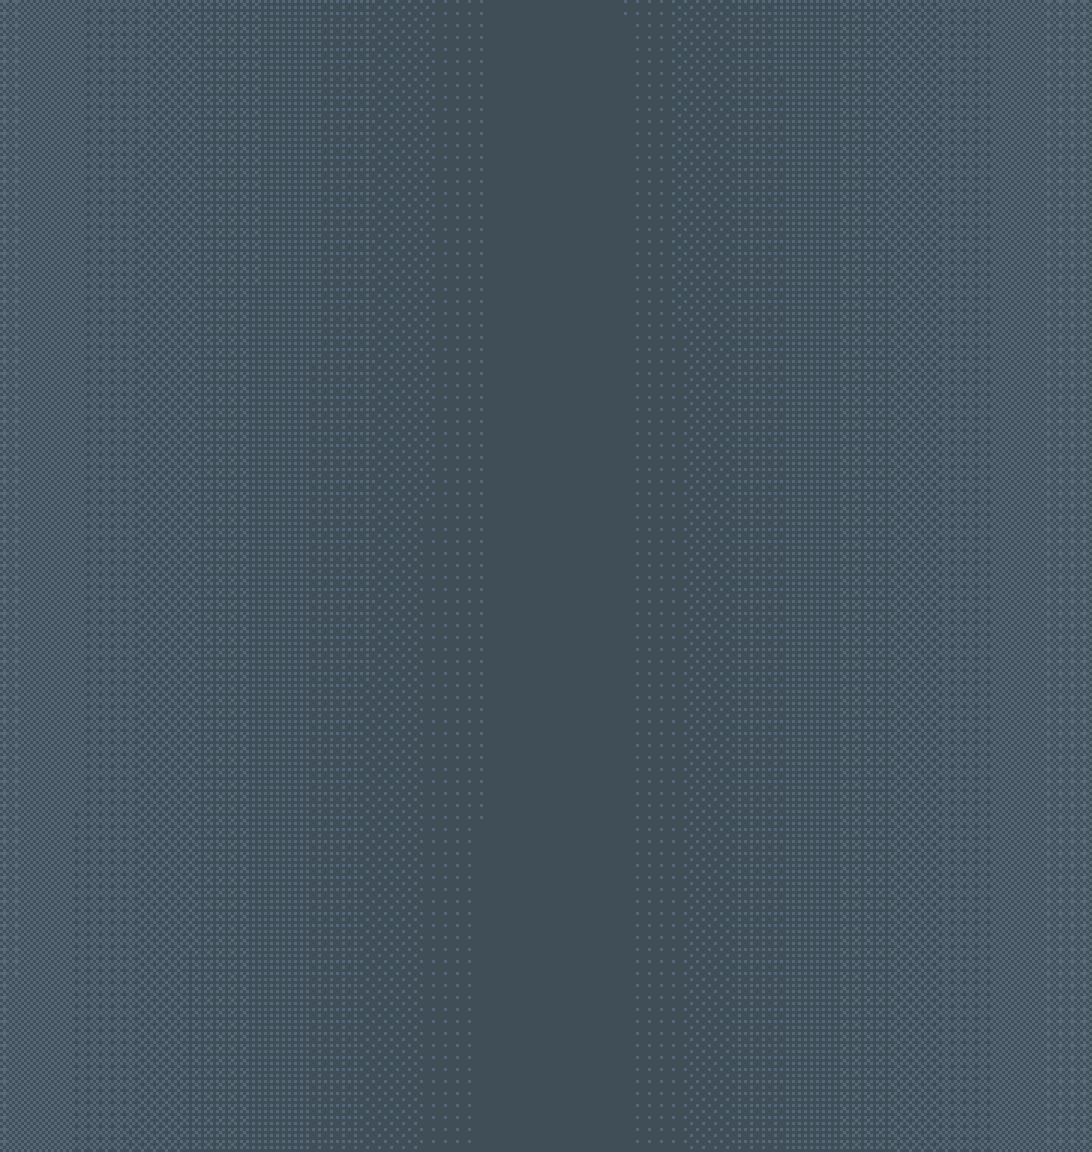
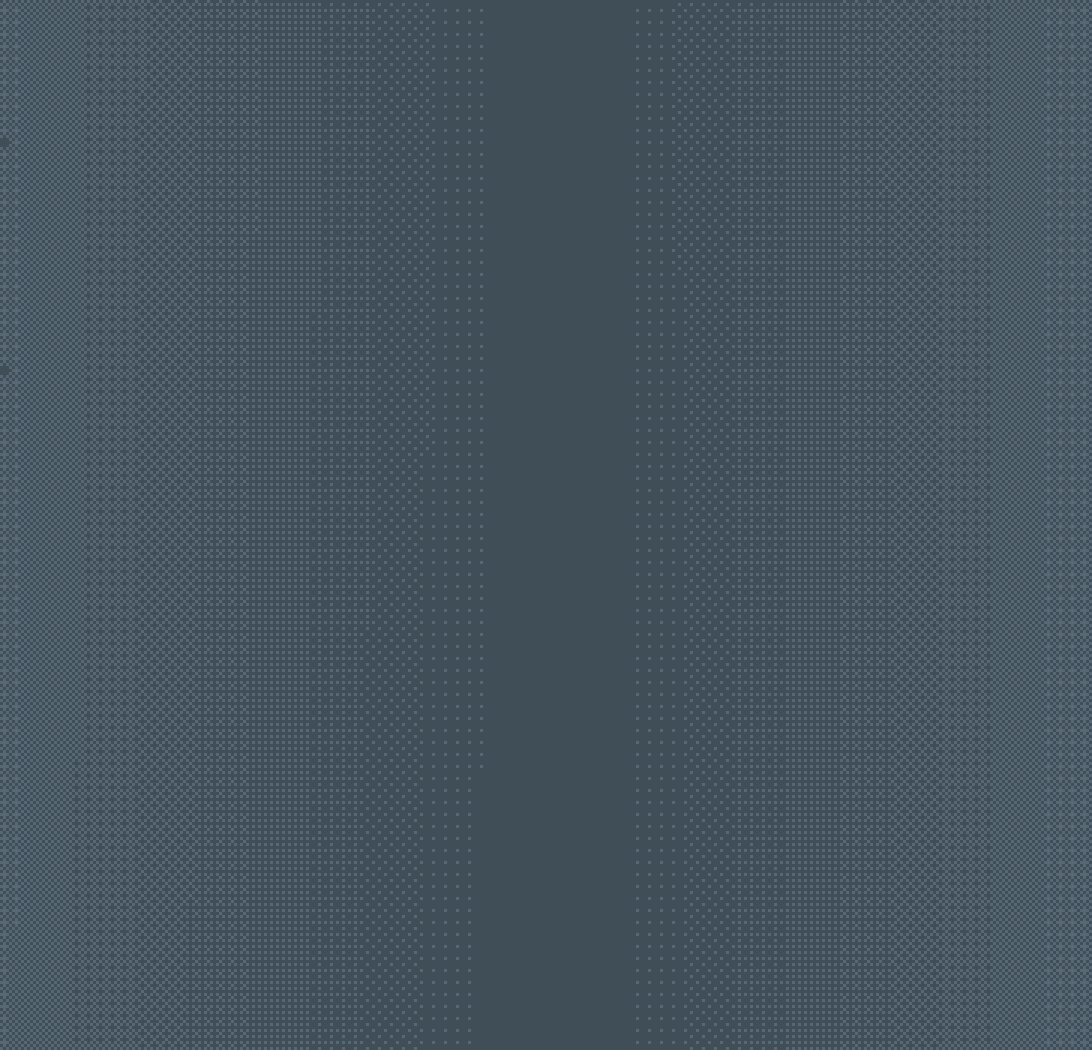
Nouveau background

Changed region(s): [[0.5916, 0.0, 1.0, 1.0], [0.0, 0.0, 0.4359, 1.0]]

diff --git a/entity/background.py b/entity/background.py
@@ -4,21 +4,29 @@ class Background(pygame.sprite.Sprite):
     def __init__(self, scrollSpeed):
         super().__init__()
         self.baseTexture = pygame.image.load("img/cailloux.png").convert()
-        self.middleTexture = pygame.image.load("graphics/background/Fond_gros.png")
-        self.image = pygame.Surface((4*288 + 1092, 500*288))
+        self.middleTexture = pygame.image.load("graphics/background/Fond_gros.png").convert_alpha()
+        self.leftWall = pygame.image.load('graphics/background/Mur_L.png').convert_alpha()
+        self.rightWall = pygame.image.load('graphics/background/Mur_R.png').convert_alpha()
+        self.image = pygame.Surface((2488, 500*1050))
         self.rect = self.image.get_rect(midtop = (1920/2, 0))
         self.scrollSpeed = scrollSpeed
         
         #le point de début de la zone est au pixel 414 et la fin au pixel 1506 et la zone fait 1092 pixels de large
         
-        for i in range(5):
-            for j in range(500):
-                if i == 2  and j%4 == 0:
-                    self.image.blit(self.middleTexture, (288*2, 288 * j))
-                if i < 2:
-                    self.image.blit(self.baseTexture, (288 * i, 288 * j))
-                if i > 2:
-                    self.image.blit(self.baseTexture, (288 * (i % 2) + 1668, 288 * j))
+
+        for i in range(500):
+            #zone jouable
+            self.image.blit(self.middleTexture, (650, 1050 * i))
+        
+        for j in range(1000):
+            #mur de gauche
+            self.image.blit(self.leftWall, (0, 525 * j))
+            #mur de droite
+            self.image.blit(self.rightWall, (1715, 525 * j))
+
+            
+            
+                    
     
     def setScrollSpeed(self, scrollSpeed):
         self.scrollSpeed = scrollSpeed

diff --git a/game.py b/game.py
@@ -17,9 +17,9 @@ from entity.pickaxe import Pickaxe
 class Game():
     def __init__(self):
         pygame.init()
-        self.scrollSpeed = 10
+        self.scrollSpeed = 15
         self.WIDTH, self.HEIGHT = 1920, 1080 #1280 , 720
-        self.LEFT_BORDER, self.RIGHT_BORDER = 414, 1506
+        self.LEFT_BORDER, self.RIGHT_BORDER = 414, 1454
         self.screen = pygame.display.set_mode((self.WIDTH, self.HEIGHT))
         
         # Background

diff --git a/entity/pickaxe.py b/entity/pickaxe.py
@@ -54,7 +54,7 @@ class Pickaxe(pygame.sprite.Sprite):
                 self.kill()
 
     def checkBound(self, xSpeedThrow):
-        if self.rect.left - xSpeedThrow <= 414 or self.rect.right + xSpeedThrow >= 1506:
+        if self.rect.left - xSpeedThrow <= 414 or self.rect.right + xSpeedThrow >= 1454:
             self.switchDir()
             return False
         return True

diff --git a/entity/Entity.py b/entity/Entity.py
@@ -69,7 +69,7 @@ class Entity(pygame.sprite.Sprite):
             else:
                 return True
         else:
-            if self.rect.right + self.xSpeed >= 1506:
+            if self.rect.right + self.xSpeed >= 1454:
                 return False
             else:
                 return True

diff --git a/entity/slowdown.py b/entity/slowdown.py
@@ -1,0 +1,7 @@
+import pygame
+
+from utils.CustomSprite import CustomSprite
+
+class Bat(CustomSprite):
+    def __init__(self, initPos, scroll_speed):
+        pass
